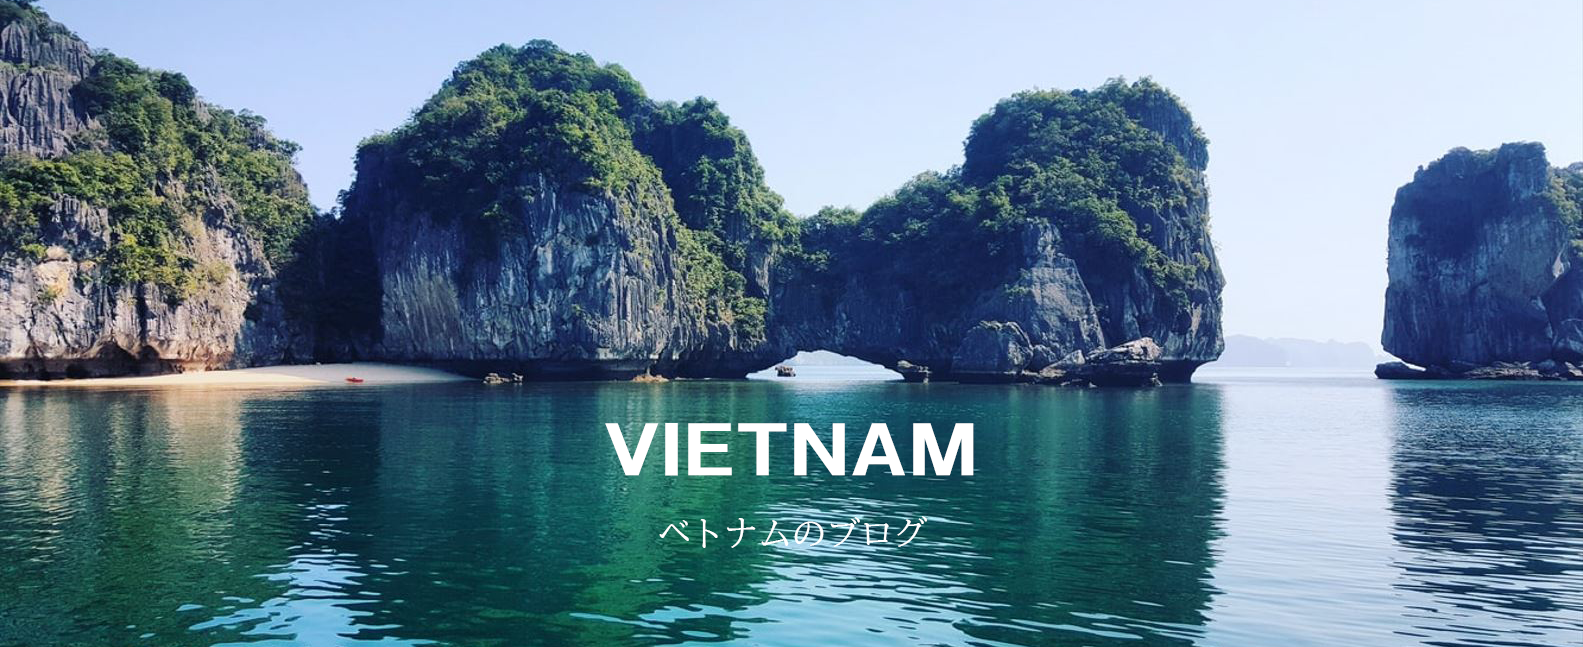
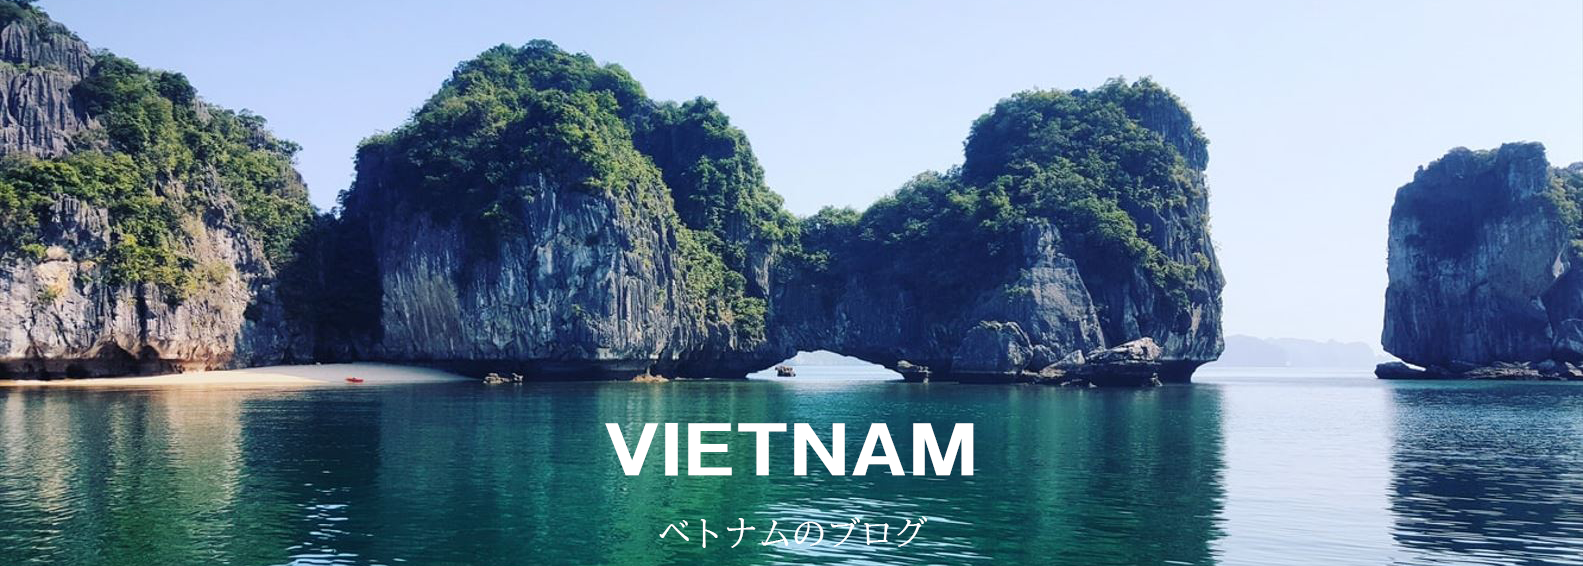
hi

diff --git a/Index.html b/Index.html
@@ -11,14 +11,14 @@
 
 <body>
     <header>
-        <div class="aaa">
-            <img src="Picture/Halong.png" alt="HaLongBay" width="100%" height="400px">
+        <div class="header_Halong">
+            <img src="Picture/Halong.png" alt="HaLongBay">
         </div>
         <div>
             <nav>
                 <ul>
                     <li><a href="Index.html">Home Page</a></li>
-                    <li><a href="#ddd">Menu</a></li>
+                    <li><a href="#main_menu">Menu</a></li>
                     <li><a href="#ppp">BeautyPic</a></li>
                     <li><a href="#fff">ContactUs</a></li>
                 </ul>
@@ -28,27 +28,32 @@
     </header>
     <main>
         <article>
-            <div id="bbb">
+            <div class="main_map">
                 <h3>ベトナムを興味がある方、以下のリンクをクリックしてください。</h3>
-                <p> <a href="https://ja.wikipedia.org/wiki/%E3%83%99%E3%83%88%E3%83%8A%E3%83%A0">ベトナムの情報こちらどうぞ</p>
-                <p> <a href="https://goo.gl/maps/fNcXvjRjiikWdj6MA">ベトナムの地図</p>
+                <p> <a href="https://ja.wikipedia.org/wiki/%E3%83%99%E3%83%88%E3%83%8A%E3%83%A0">ベトナムの情報こちらどうぞ</a></p>
+                <p> <a href="https://goo.gl/maps/fNcXvjRjiikWdj6MA">ベトナムの地図1</a></p>
             </div>
-            <div id="ccc">
+            <div class="main_map_pic">
                 <img src="Picture/vitenam.jpg" alt="VietnamMap" width="auto" height="500px">
             </div>
-            <div id="ddd">
+            <div id="main_menu">
                 <h2>MENU</h2>
-                <section class="eee" >
+                <section class="main_menu_list" >
                     <img src="Picture/Norther.jfif" alt="NorthernVietnam" width="450px" height="350px">
                     <a href="NorthernVietnam.html">北部</a>
                     <h5>Lorem Ipsum Lorem Ipsum</h5>
                 </section>
-                <section class="eee">
+                <section class="main_menu_list">
                     <img src="Picture/Central.jfif" alt="CentralVietnam" width="450px" height="350px">
                     <a href="CentralVietnam.html">中部</a>
-                    <h5>Lorem Ipsum Lorem IpsumLorem Ipsum Lorem Ipsum</h5>
+                    <pre>中部地域は山、海、川、ラグーン、平野に囲まれ、非常に過酷ですが、
+                        一年中多くの自然災害に見舞われています。ここの人々は、土地の地理的および地形的な不利な点のために、
+                        本質的に勤勉で勤勉です。それはやりがいがあり、勤勉で、質素です。
+                        よく食べて丈夫な服を着るのが好きな方法を変えるのは難しいです。
+                        土地はまだ非常に厳しいので、それはまだ重く、生き方、生き方に多くの苦味を持っています。
+                        フォークソングとフォークソングも部分的に懸念と困難を反映しています...</pre>
                 </section>
-                <section class="eee">
+                <section class="main_menu_list">
                     <img src="Picture/South.jfif" alt="SouthernVietnam" width="450px" height="350px">
                     <a href="SouthernVietnam .html">南部</a>
                     <h5>Lorem Ipsum Lorem Ipsum</h5>

diff --git a/style.css b/style.css
@@ -1,20 +1,26 @@
 
 /* Reset CSS */
-h3,h5,ul,li,p,a,img {
+*{
   margin: 0;
   padding: 0;
 }
 
 /* Header CSS */
-#aaa{
+#header_Halong{
    position: relative;
 }
+
+header img{
+  width:100% ;
+  height: auto;
+}
+
  body{
    min-width: 1024px;
  }
 
 /* NAV CSS */
-nav  {
+header nav  {
     position: absolute;
     top: 5px;
     padding: 10 0 0 10;
@@ -34,7 +40,7 @@ a {
     display: block;
     line-height: 40px;
     text-align: center;
-    color: rgb(124, 103, 103);
+    color: white;
     text-decoration: none;
     font-size: 20px;
     font-weight: bold;
@@ -45,46 +51,51 @@ a:hover {
     font-weight: bold;
   }
 
-.eee a {
-    display: block;
-    line-height: 20px;
-    text-align: center;
-    color: rgb(88, 88, 88)d;
-    text-decoration: none;
-    font-size: 20px;
-    font-weight: bold;
-  }
-  
-.eee a:hover {
-    color: palevioletred;
-    font-weight: bold;
-  }
 
   /* Main CSS */
-main #bbb{
+main .main_map{
       float: left;
       margin: 200px auto 0 300px;
       clear: both;
   }
-main #bbb h3{
+main .main_map h3{
       font-weight: bold;
-      color: tomato;
-     
+      color: tomato;     
 }
 
-main #ddd {
+main a{
+  display: block;
+  line-height: 20px;
+  text-align: center;
+  text-decoration: none;
+  font-size: 20px;
+  font-weight: bold;
+  color:rgb(124, 103, 103);
+}
+
+main a:hover{
+  color: palevioletred;
+}
+
+main #main_menu {
     background-color: rgba(212, 209, 209, 0.533);
+    margin: 10px auto;
     overflow: hidden;
 }
-.eee {
+main h2{
+  text-align: center;
+  margin: 10px auto;
+}
+main .main_menu_list {
     width: auto;
     padding: 20 20 20 20;
-    margin: 30px 20px 20px 30px;
+    margin: 10px 10px 10px 40px;
     border-radius: 10px;
     background-color: rgb(255, 255, 255);
     float: left;
     text-align: center;
-    color:  rgba(156, 152, 152, 0.533);
+    color: black;
+    font-weight: bold;
 }
 
 .ppp {
